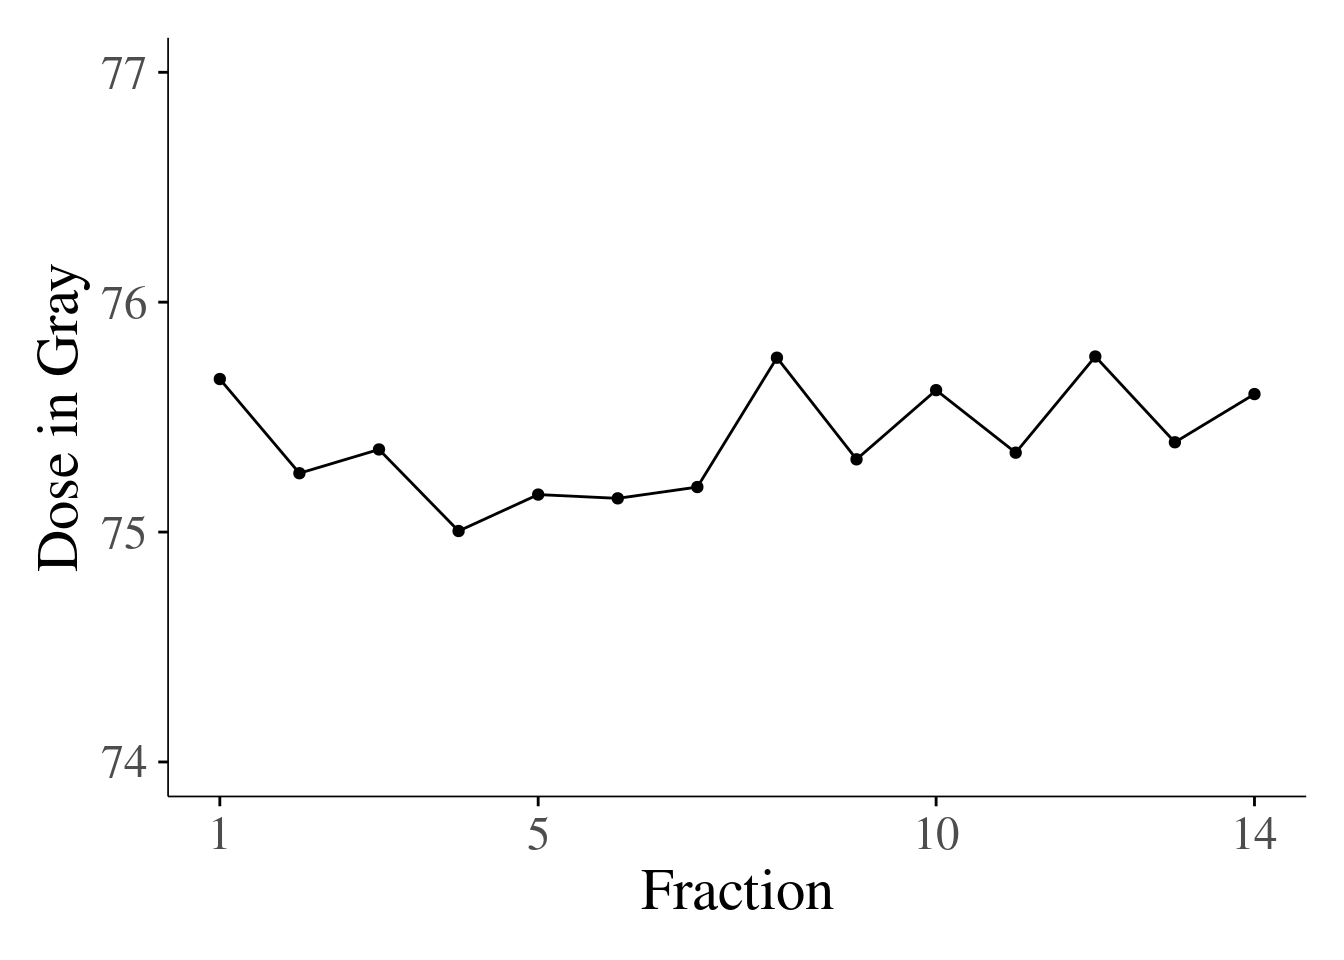
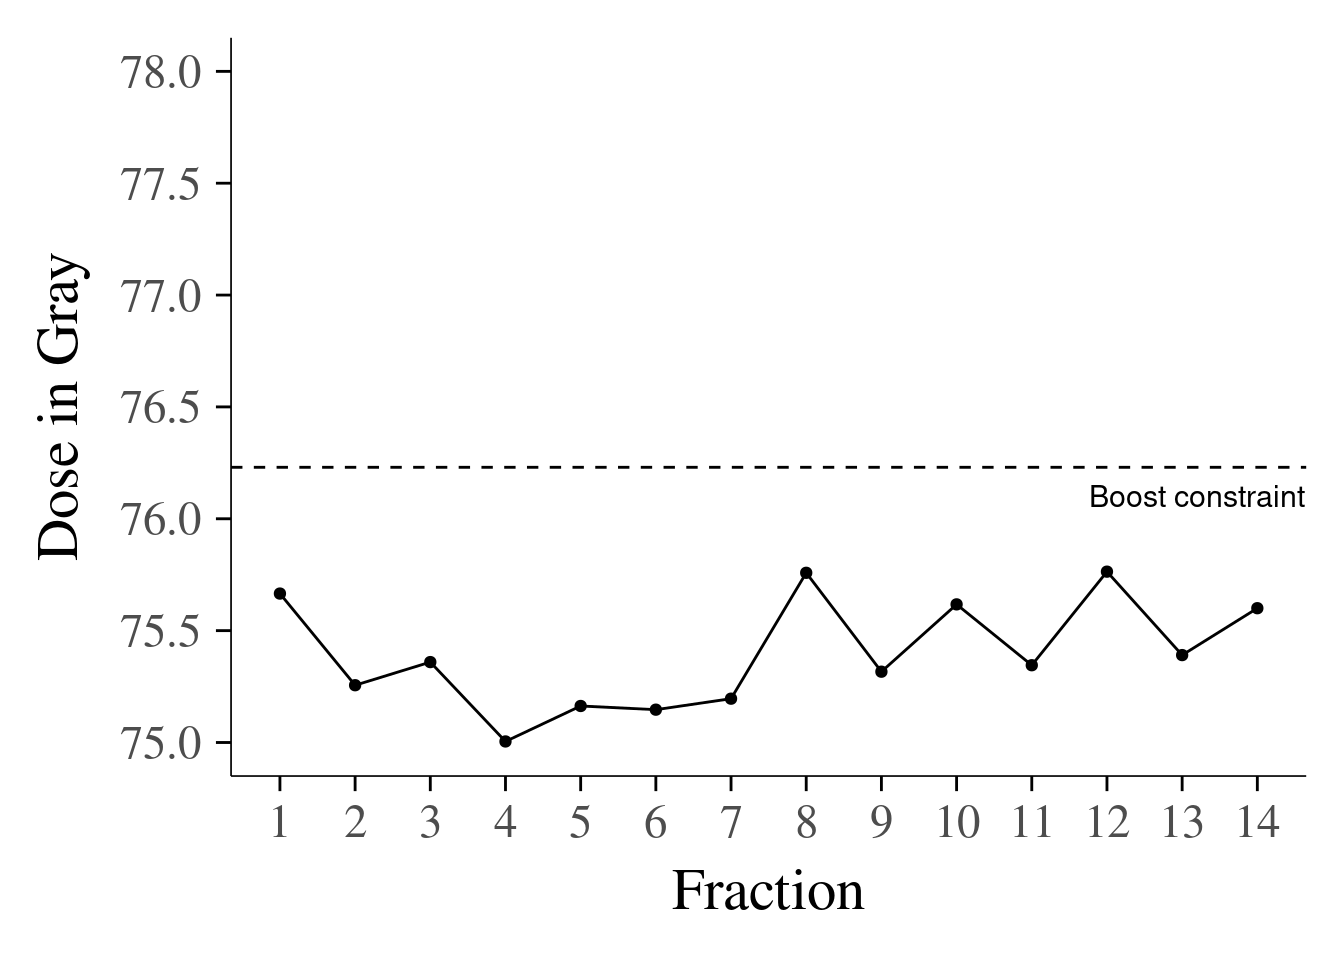
Build site.

diff --git a/docs/ggplot2.html b/docs/ggplot2.html
@@ -17,7 +17,7 @@
 
 <script src="site_libs/jquery-1.11.3/jquery.min.js"></script>
 <meta name="viewport" content="width=device-width, initial-scale=1" />
-<link href="site_libs/bootstrap-3.3.5/css/cosmo.min.css" rel="stylesheet" />
+<link href="site_libs/bootstrap-3.3.5/css/bootstrap.min.css" rel="stylesheet" />
 <script src="site_libs/bootstrap-3.3.5/js/bootstrap.min.js"></script>
 <script src="site_libs/bootstrap-3.3.5/shim/html5shiv.min.js"></script>
 <script src="site_libs/bootstrap-3.3.5/shim/respond.min.js"></script>
@@ -366,9 +366,6 @@ div.tocify {
   <a href="about.html">About</a>
 </li>
 <li>
-  <a href="Patienten.html">Patienten</a>
-</li>
-<li>
   <a href="license.html">License</a>
 </li>
       </ul>
@@ -416,7 +413,7 @@ div.tocify {
 <div class="tab-content">
 <div id="summary" class="tab-pane fade in active">
 <p>
-<strong>Last updated:</strong> 2020-07-01
+<strong>Last updated:</strong> 2020-07-02
 </p>
 <p>
 <strong>Checks:</strong> <span class="glyphicon glyphicon-ok text-success" aria-hidden="true"></span> 7 <span class="glyphicon glyphicon-exclamation-sign text-danger" aria-hidden="true"></span> 0
@@ -507,16 +504,16 @@ This reproducible <a href="http://rmarkdown.rstudio.com">R Markdown</a> analysis
 <div class="panel panel-default">
 <div class="panel-heading">
 <p class="panel-title">
-<a data-toggle="collapse" data-parent="#workflowr-checks" href="#strongRepositoryversionstrongahrefhttpsgithubcomdssrttnTesttreedd65706fb53996e2471142c0604265b624486051targetblankdd65706a"> <span class="glyphicon glyphicon-ok text-success" aria-hidden="true"></span> <strong>Repository version:</strong> <a href="https://github.com/dssrttn/Test/tree/dd65706fb53996e2471142c0604265b624486051" target="_blank">dd65706</a> </a>
+<a data-toggle="collapse" data-parent="#workflowr-checks" href="#strongRepositoryversionstrongahrefhttpsgithubcomdssrttnTesttree4bca8f5993371b86fed0260dd47aca358a0bff1etargetblank4bca8f5a"> <span class="glyphicon glyphicon-ok text-success" aria-hidden="true"></span> <strong>Repository version:</strong> <a href="https://github.com/dssrttn/Test/tree/4bca8f5993371b86fed0260dd47aca358a0bff1e" target="_blank">4bca8f5</a> </a>
 </p>
 </div>
[2 lines of base64/hex data omitted]
 <div class="panel-body">
 <p>
 Great! You are using Git for version control. Tracking code development and connecting the code version to the results is critical for reproducibility.
 </p>
 <p>
-The results in this page were generated with repository version <a href="https://github.com/dssrttn/Test/tree/dd65706fb53996e2471142c0604265b624486051" target="_blank">dd65706</a>. See the <em>Past versions</em> tab to see a history of the changes made to the R Markdown and HTML files.
+The results in this page were generated with repository version <a href="https://github.com/dssrttn/Test/tree/4bca8f5993371b86fed0260dd47aca358a0bff1e" target="_blank">4bca8f5</a>. See the <em>Past versions</em> tab to see a history of the changes made to the R Markdown and HTML files.
 </p>
 <p>
 Note that you need to be careful to ensure that all relevant files for the analysis have been committed to Git prior to generating the results (you can use <code>wflow_publish</code> or <code>wflow_git_commit</code>). workflowr only checks the R Markdown file, but you know if there are other scripts or data files that it depends on. Below is the status of the Git repository when the results were generated:
@@ -538,8 +535,7 @@ Untracked files:
     Untracked:  data/Rectum_1.csv
 
 Unstaged changes:
-    Modified:   analysis/kable.Rmd
-    Modified:   analysis/relativ.Rmd
+    Modified:   _workflowr.yml
 
 </code></pre>
 <p>
@@ -578,6 +574,40 @@ Message
 </tr>
 </thead>
 <tbody>
+<tr>
+<td>
+Rmd
+</td>
+<td>
+<a href="https://github.com/dssrttn/Test/blob/4bca8f5993371b86fed0260dd47aca358a0bff1e/analysis/ggplot2.Rmd" target="_blank">4bca8f5</a>
+</td>
+<td>
+Mein Vorname
+</td>
+<td>
+2020-07-02
+</td>
+<td>
+Loeschen der farbigen constraints, messages withhold
+</td>
+</tr>
+<tr>
+<td>
+html
+</td>
+<td>
+<a href="https://rawcdn.githack.com/dssrttn/Test/11408acb6635833aa419db1cf3cdd00cdbd1fa83/docs/ggplot2.html" target="_blank">11408ac</a>
+</td>
+<td>
+Mein Vorname
+</td>
+<td>
+2020-07-01
+</td>
+<td>
+Build site.
+</td>
+</tr>
 <tr>
 <td>
 Rmd
@@ -1093,6 +1123,17 @@ Date
 <tbody>
 <tr>
 <td>
+<a href="https://github.com/dssrttn/Test/blob/11408acb6635833aa419db1cf3cdd00cdbd1fa83/docs/figure/ggplot2.Rmd/DIL D99-1.png" target="_blank">11408ac</a>
+</td>
+<td>
+Mein Vorname
+</td>
+<td>
+2020-07-01
+</td>
+</tr>
+<tr>
+<td>
 <a href="https://github.com/dssrttn/Test/blob/c32fbfee31361c9659753109ef47f20df2ff9f7d/docs/figure/ggplot2.Rmd/DIL D99-1.png" target="_blank">c32fbfe</a>
 </td>
 <td>
@@ -1146,41 +1187,83 @@ Mein Vorname
 </button>
 </p>
 <div id="workflowr-sessioninfo" class="collapse">
-<pre class="r"><code>sessionInfo()</code></pre>
-<pre><code>R version 4.0.1 (2020-06-06)
-Platform: x86_64-pc-linux-gnu (64-bit)
-Running under: Ubuntu 20.04 LTS
+<pre class="r"><code>devtools::session_info()</code></pre>
+<pre><code>─ Session info ───────────────────────────────────────────────────────────────
+ setting  value                       
+ version  R version 4.0.1 (2020-06-06)
+ os       Ubuntu 20.04 LTS            
+ system   x86_64, linux-gnu           
+ ui       X11                         
+ language (EN)                        
+ collate  en_US.UTF-8                 
+ ctype    en_US.UTF-8                 
+ tz       Europe/Berlin               
+ date     2020-07-02                  
 
-Matrix products: default
-BLAS:   /usr/lib/x86_64-linux-gnu/blas/libblas.so.3.9.0
-LAPACK: /usr/lib/x86_64-linux-gnu/lapack/liblapack.so.3.9.0
+─ Packages ───────────────────────────────────────────────────────────────────
+ package     * version date       lib source        
+ assertthat    0.2.1   2019-03-21 [1] CRAN (R 4.0.1)
+ backports     1.1.8   2020-06-17 [1] CRAN (R 4.0.1)
+ callr         3.4.3   2020-03-28 [1] CRAN (R 4.0.1)
+ cli           2.0.2   2020-02-28 [1] CRAN (R 4.0.1)
+ colorspace    1.4-1   2019-03-18 [1] CRAN (R 4.0.1)
+ crayon        1.3.4   2017-09-16 [1] CRAN (R 4.0.1)
+ desc          1.2.0   2018-05-01 [1] CRAN (R 4.0.1)
+ devtools      2.3.0   2020-04-10 [1] CRAN (R 4.0.1)
+ digest        0.6.25  2020-02-23 [1] CRAN (R 4.0.1)
+ dplyr         1.0.0   2020-05-29 [1] CRAN (R 4.0.1)
+ ellipsis      0.3.1   2020-05-15 [1] CRAN (R 4.0.1)
+ evaluate      0.14    2019-05-28 [1] CRAN (R 4.0.1)
+ fansi         0.4.1   2020-01-08 [1] CRAN (R 4.0.1)
+ farver        2.0.3   2020-01-16 [1] CRAN (R 4.0.1)
+ fs            1.4.1   2020-04-04 [1] CRAN (R 4.0.1)
+ generics      0.0.2   2018-11-29 [1] CRAN (R 4.0.1)
+ ggplot2     * 3.3.2   2020-06-19 [1] CRAN (R 4.0.1)
+ git2r         0.27.1  2020-05-03 [1] CRAN (R 4.0.1)
+ glue          1.4.1   2020-05-13 [1] CRAN (R 4.0.1)
+ gtable        0.3.0   2019-03-25 [1] CRAN (R 4.0.1)
+ htmltools     0.5.0   2020-06-16 [1] CRAN (R 4.0.1)
+ httpuv        1.5.4   2020-06-06 [1] CRAN (R 4.0.1)
+ knitr         1.29    2020-06-23 [1] CRAN (R 4.0.1)
+ later         1.1.0.1 2020-06-05 [1] CRAN (R 4.0.1)
+ lifecycle     0.2.0   2020-03-06 [1] CRAN (R 4.0.1)
+ magrittr      1.5     2014-11-22 [1] CRAN (R 4.0.1)
+ memoise       1.1.0   2017-04-21 [1] CRAN (R 4.0.1)
+ munsell       0.5.0   2018-06-12 [1] CRAN (R 4.0.1)
+ pillar        1.4.4   2020-05-05 [1] CRAN (R 4.0.1)
+ pkgbuild      1.0.8   2020-05-07 [1] CRAN (R 4.0.1)
+ pkgconfig     2.0.3   2019-09-22 [1] CRAN (R 4.0.1)
+ pkgload       1.1.0   2020-05-29 [1] CRAN (R 4.0.1)
+ prettyunits   1.1.1   2020-01-24 [1] CRAN (R 4.0.1)
+ processx      3.4.2   2020-02-09 [1] CRAN (R 4.0.1)
+ promises      1.1.1   2020-06-09 [1] CRAN (R 4.0.1)
+ ps            1.3.3   2020-05-08 [1] CRAN (R 4.0.1)
+ purrr         0.3.4   2020-04-17 [1] CRAN (R 4.0.1)
+ R6            2.4.1   2019-11-12 [1] CRAN (R 4.0.1)
+ Rcpp          1.0.4.6 2020-04-09 [1] CRAN (R 4.0.1)
+ remotes       2.1.1   2020-02-15 [1] CRAN (R 4.0.1)
+ rlang         0.4.6   2020-05-02 [1] CRAN (R 4.0.1)
+ rmarkdown     2.3     2020-06-18 [1] CRAN (R 4.0.1)
+ rprojroot     1.3-2   2018-01-03 [1] CRAN (R 4.0.1)
+ scales        1.1.1   2020-05-11 [1] CRAN (R 4.0.1)
+ sessioninfo   1.1.1   2018-11-05 [1] CRAN (R 4.0.1)
+ stringi       1.4.6   2020-02-17 [1] CRAN (R 4.0.1)
+ stringr       1.4.0   2019-02-10 [1] CRAN (R 4.0.1)
+ testthat      2.3.2   2020-03-02 [1] CRAN (R 4.0.1)
+ tibble        3.0.1   2020-04-20 [1] CRAN (R 4.0.1)
+ tidyselect    1.1.0   2020-05-11 [1] CRAN (R 4.0.1)
+ usethis       1.6.1   2020-04-29 [1] CRAN (R 4.0.1)
+ vctrs         0.3.1   2020-06-05 [1] CRAN (R 4.0.1)
+ whisker       0.4     2019-08-28 [1] CRAN (R 4.0.1)
+ withr         2.2.0   2020-04-20 [1] CRAN (R 4.0.1)
+ workflowr   * 1.6.2   2020-04-30 [1] CRAN (R 4.0.1)
+ xfun          0.15    2020-06-21 [1] CRAN (R 4.0.1)
+ yaml          2.2.1   2020-02-01 [1] CRAN (R 4.0.1)
 
-locale:
- [1] LC_CTYPE=en_US.UTF-8       LC_NUMERIC=C              
- [3] LC_TIME=de_DE.UTF-8        LC_COLLATE=en_US.UTF-8    
- [5] LC_MONETARY=de_DE.UTF-8    LC_MESSAGES=en_US.UTF-8   
- [7] LC_PAPER=de_DE.UTF-8       LC_NAME=C                 
- [9] LC_ADDRESS=C               LC_TELEPHONE=C            
-[11] LC_MEASUREMENT=de_DE.UTF-8 LC_IDENTIFICATION=C       
-
-attached base packages:
-[1] stats     graphics  grDevices utils     datasets  methods   base     
-
-other attached packages:
-[1] ggplot2_3.3.2   workflowr_1.6.2
-
-loaded via a namespace (and not attached):
- [1] Rcpp_1.0.4.6     compiler_4.0.1   pillar_1.4.4     later_1.1.0.1   
- [5] git2r_0.27.1     tools_4.0.1      digest_0.6.25    evaluate_0.14   
- [9] lifecycle_0.2.0  tibble_3.0.1     gtable_0.3.0     pkgconfig_2.0.3 
-[13] rlang_0.4.6      yaml_2.2.1       xfun_0.15        withr_2.2.0     
-[17] stringr_1.4.0    dplyr_1.0.0      knitr_1.29       generics_0.0.2  
-[21] fs_1.4.1         vctrs_0.3.1      rprojroot_1.3-2  grid_4.0.1      
-[25] tidyselect_1.1.0 glue_1.4.1       R6_2.4.1         rmarkdown_2.3   
-[29] farver_2.0.3     purrr_0.3.4      magrittr_1.5     whisker_0.4     
-[33] backports_1.1.8  scales_1.1.1     promises_1.1.1   htmltools_0.5.0 
-[37] ellipsis_0.3.1   colorspace_1.4-1 httpuv_1.5.4     stringi_1.4.6   
-[41] munsell_0.5.0    crayon_1.3.4    </code></pre>
+[1] /home/diss/R/x86_64-pc-linux-gnu-library/4.0
+[2] /usr/local/lib/R/site-library
+[3] /usr/lib/R/site-library
+[4] /usr/lib/R/library</code></pre>
 </div>
 </div>
 
